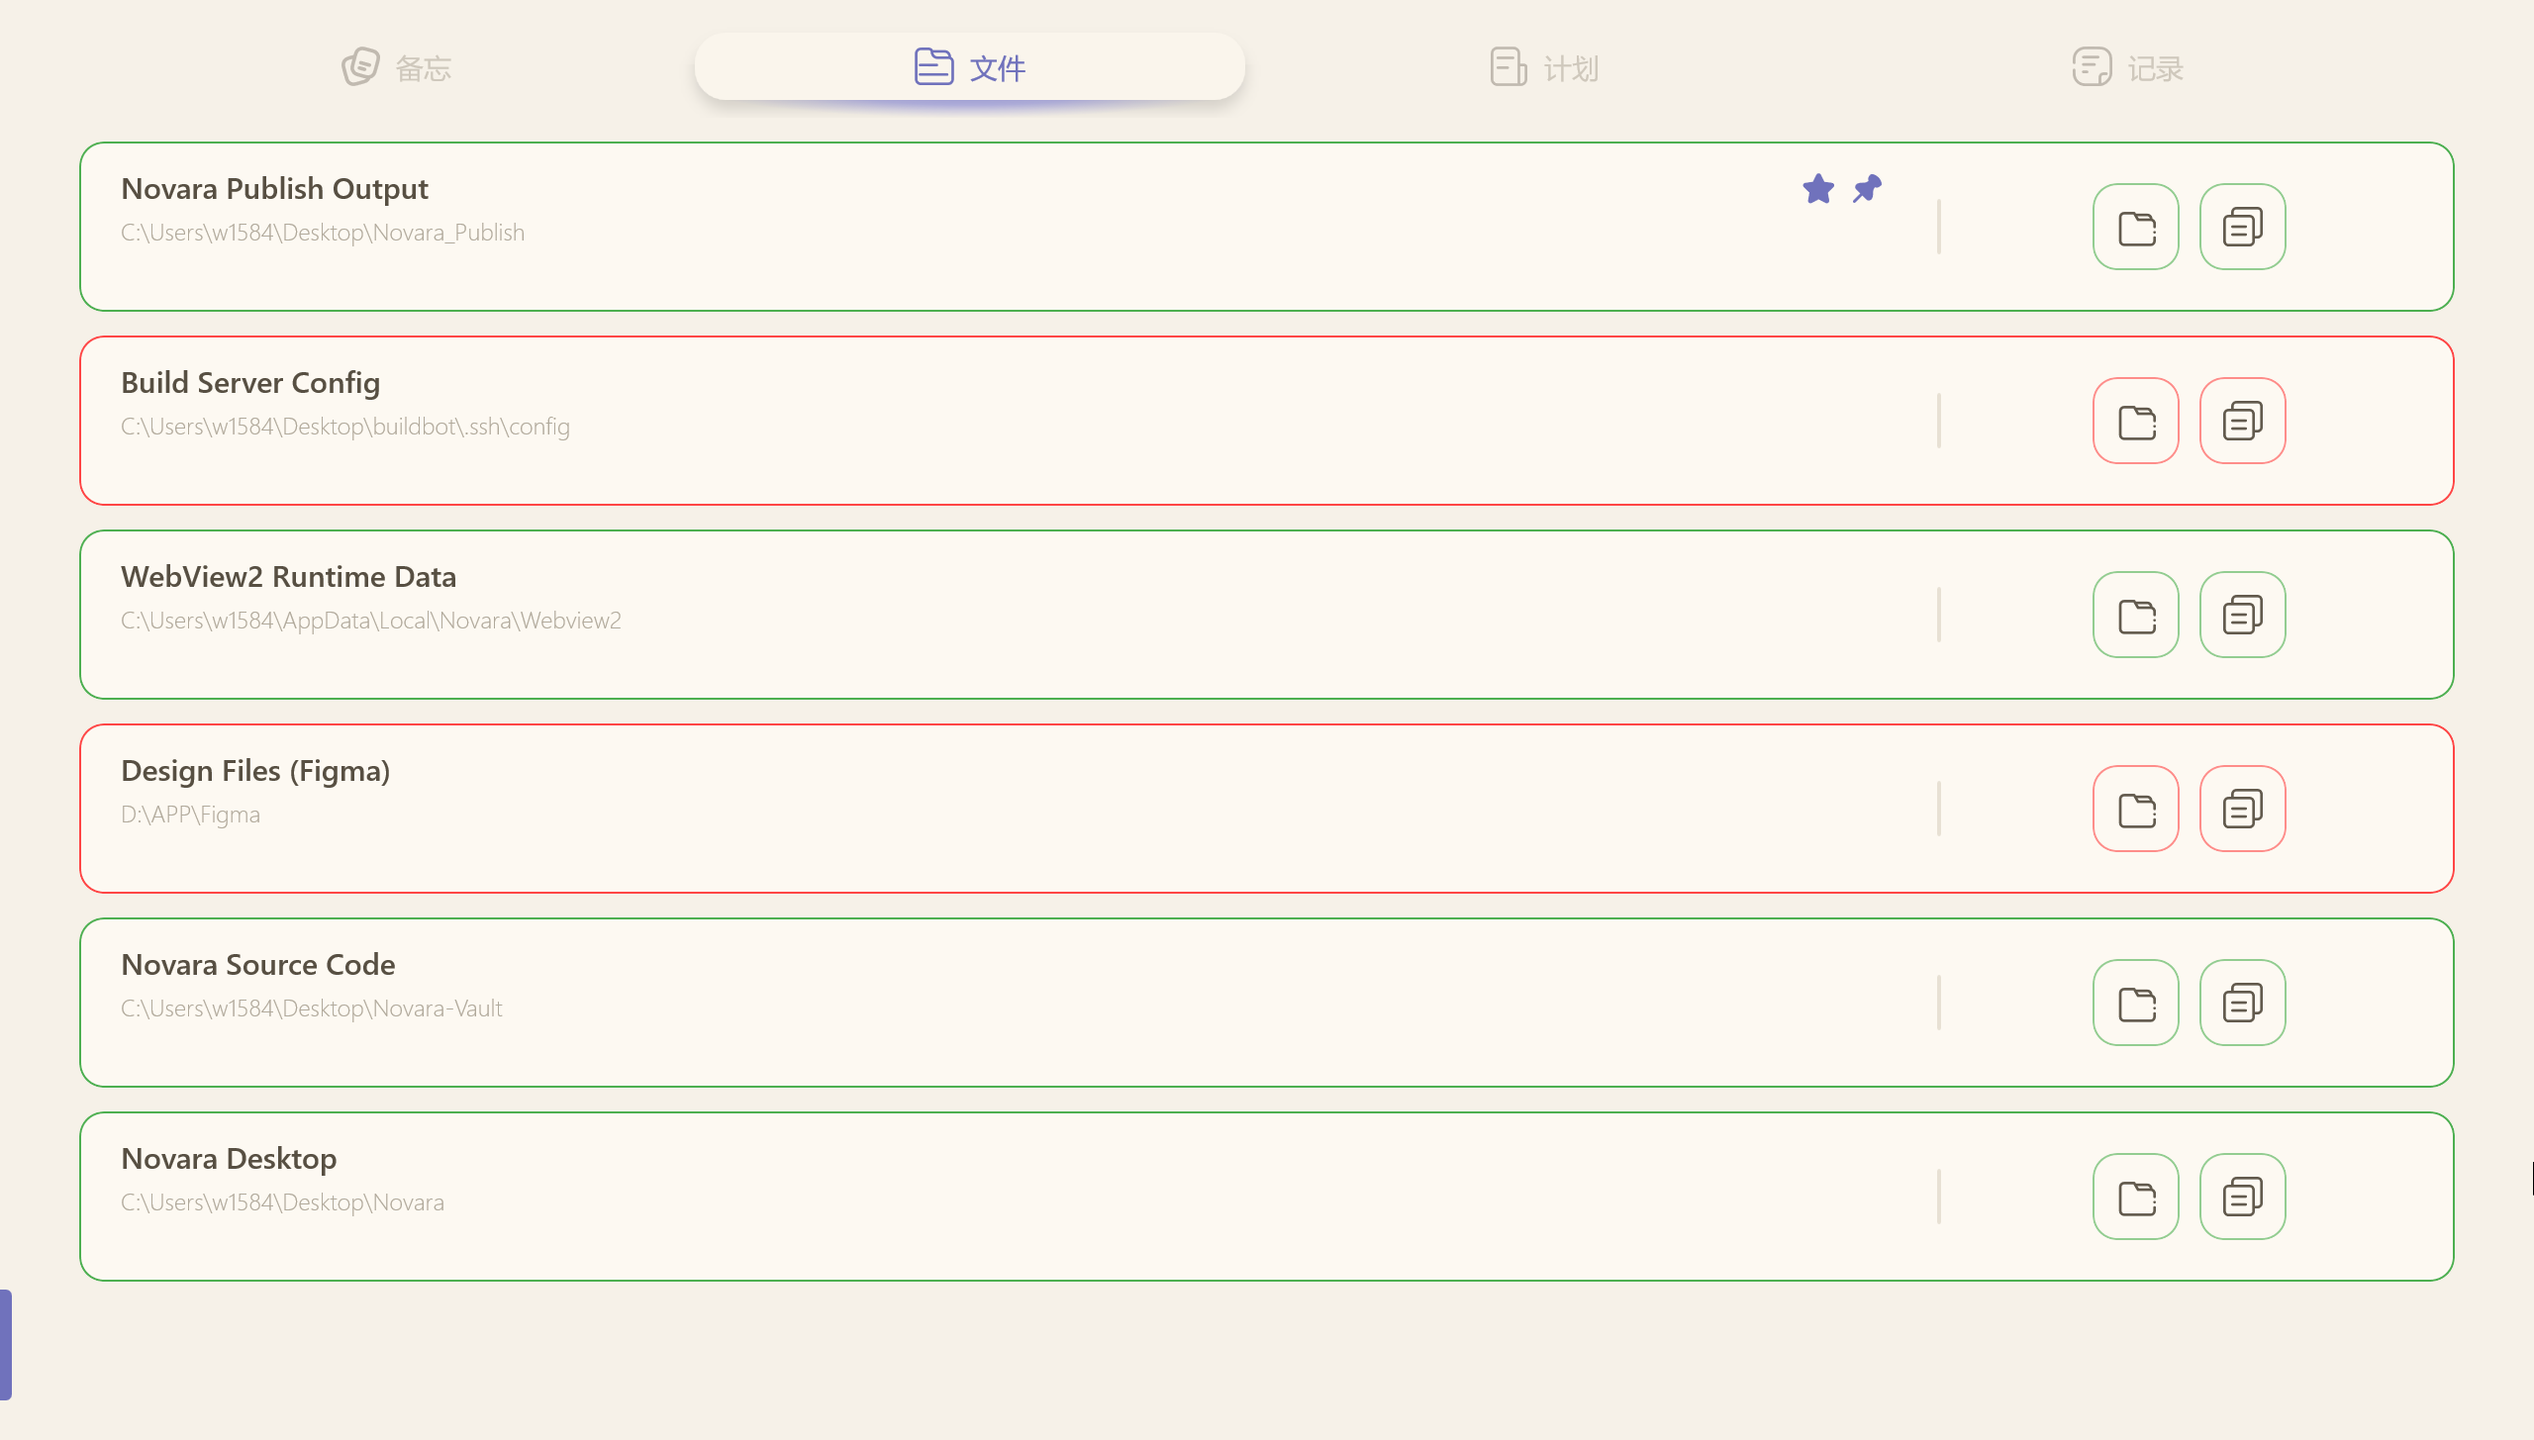
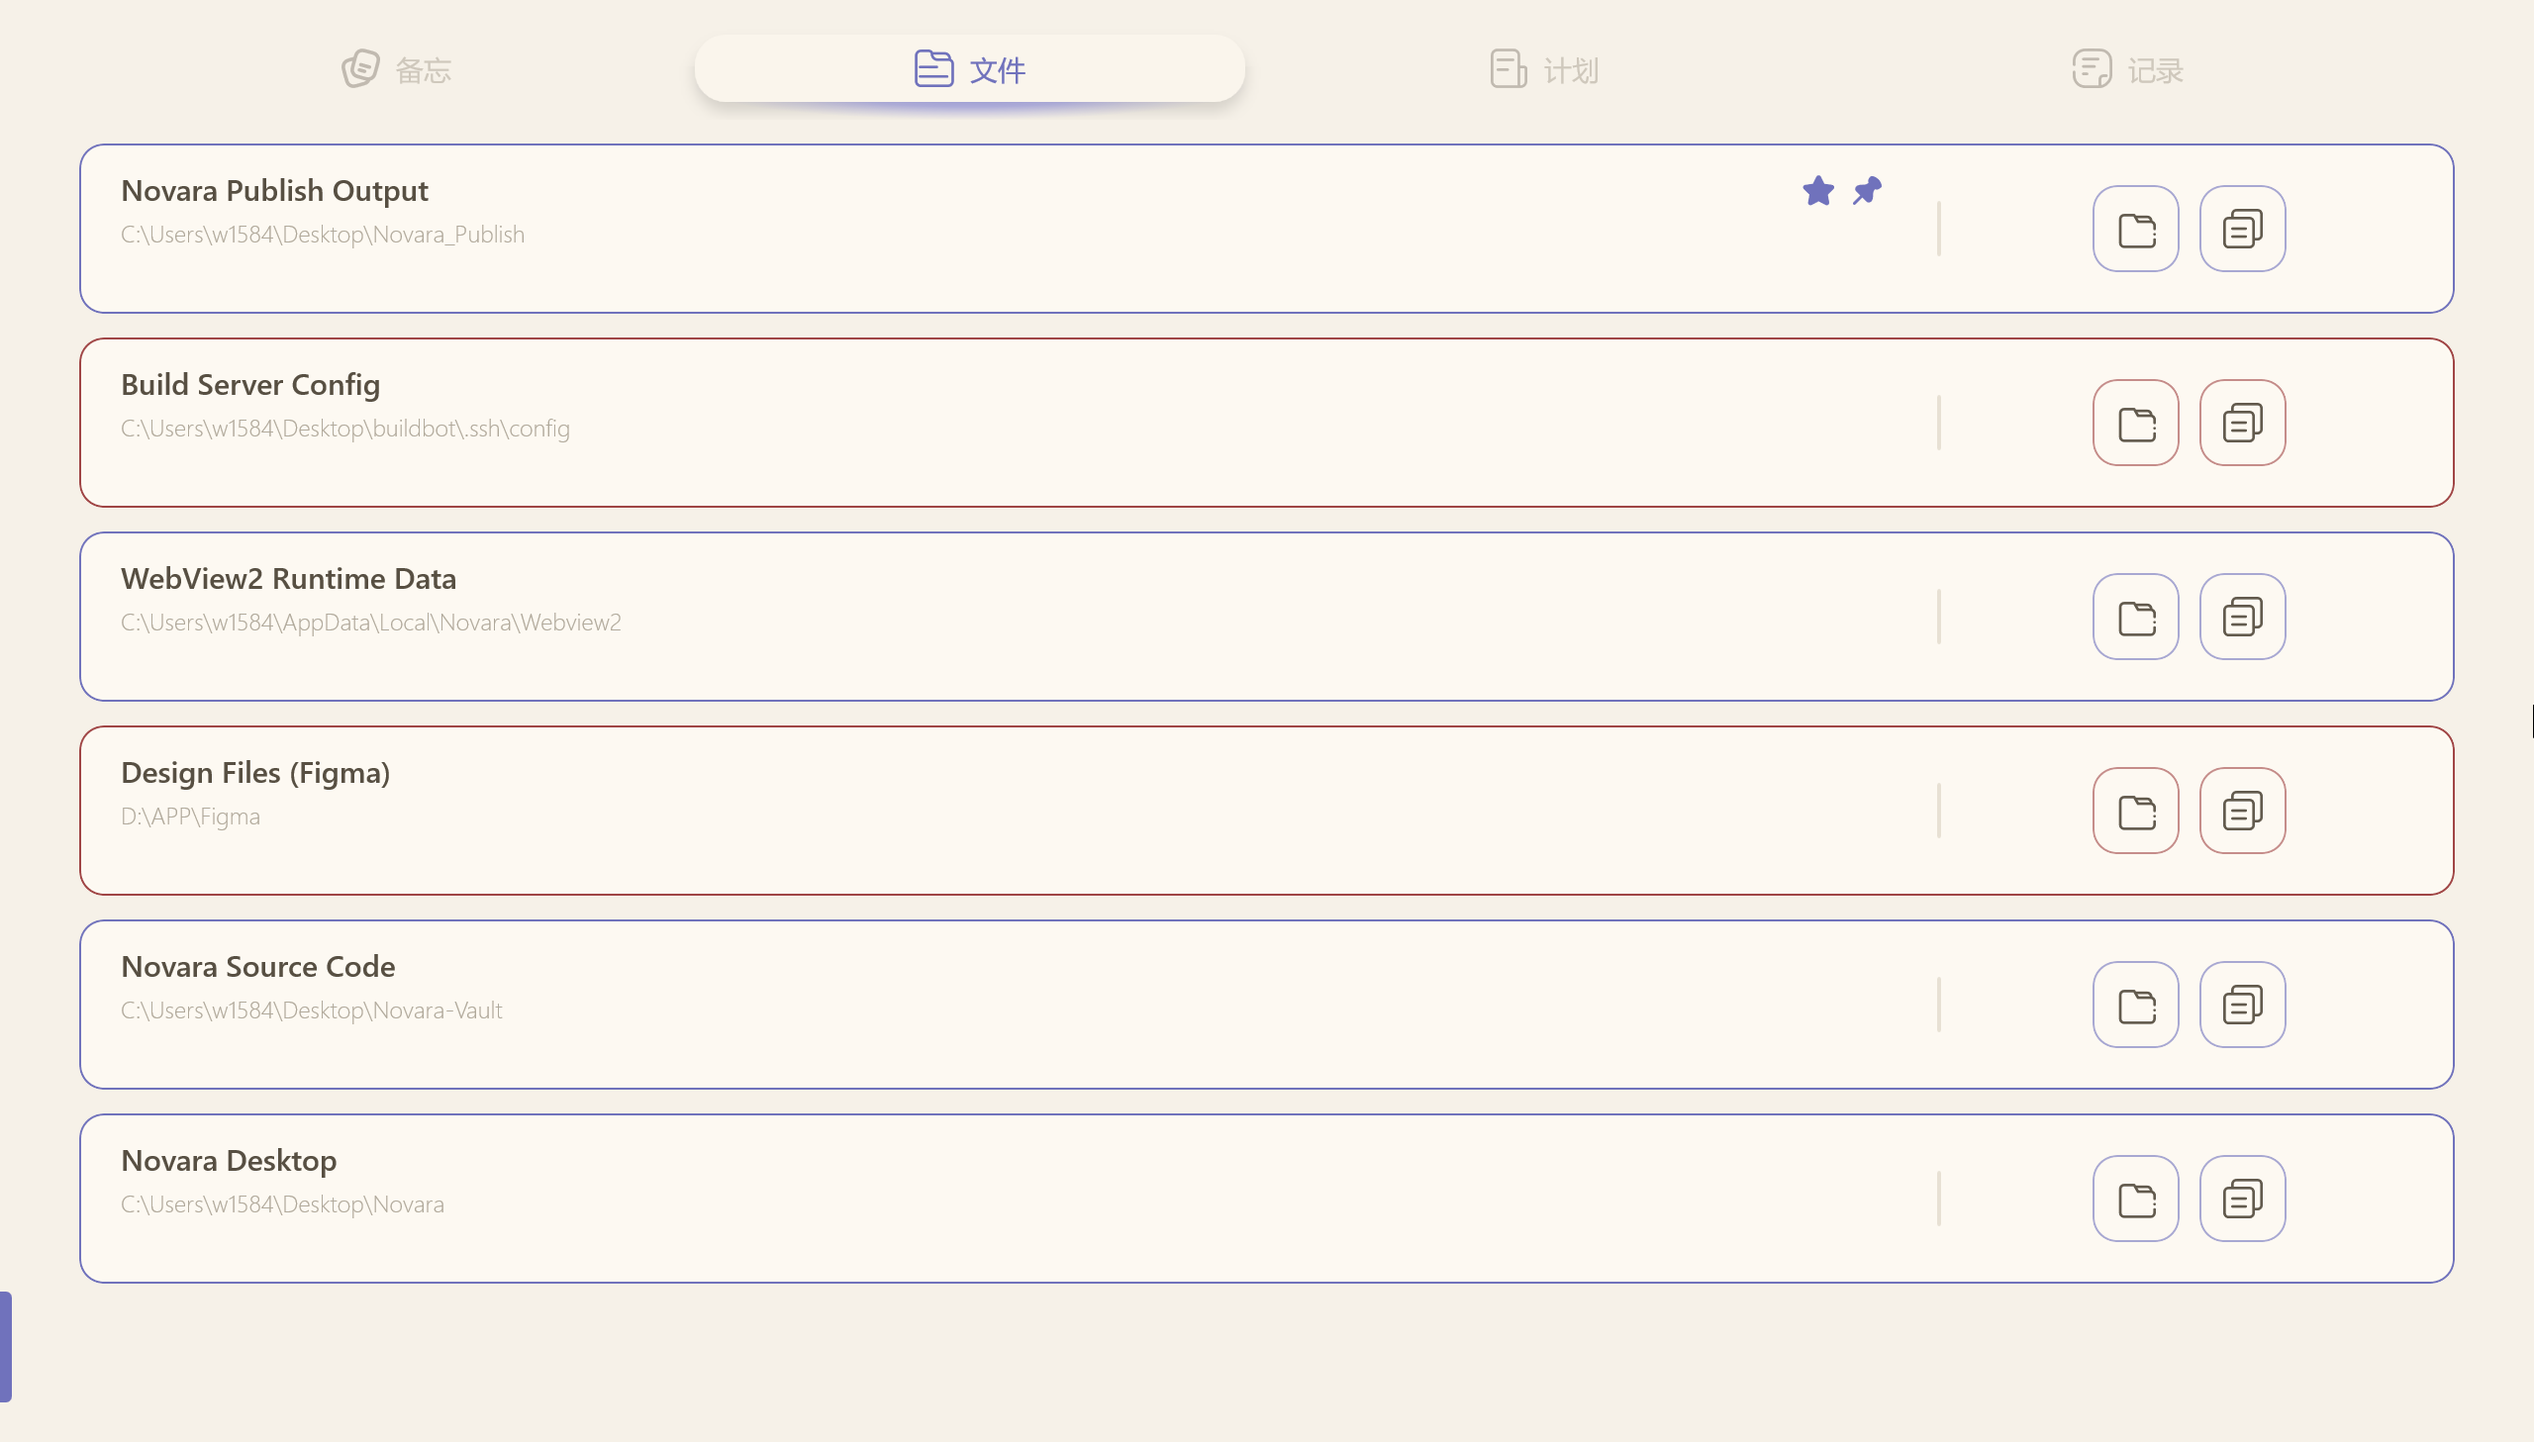
Refresh README screenshots to 10.2 UI and add split-preview and reminder shots

diff --git a/README.md b/README.md
@@ -124,6 +124,10 @@ A lightweight productivity board that combines to-do lists, sticky notes, and ti
   <img src="images/English-PlanPage.png" alt="Task dashboard" width="720" />
 </p>
 
+<p align="center">
+  <img src="images/Plan Reminder.png" alt="Reminder gradient on a plan card" width="720" />
+</p>
+
 ## Desktop Sticky Notes
 
 Send any note or todo card to your desktop with one click. A dedicated lightweight host process (**StickNoteHost**) keeps notes visible even when the main app is closed:
@@ -157,6 +161,7 @@ A filter bar (mixed / diary / documents) and per-card format badges keep everyth
   <img src="images/HtmlEditor.png" alt="Rich text HTML editor" width="420" />
   <img src="images/English-MdEditor-PreviewMode.png" alt="Markdown editor preview" width="420" />
   <img src="images/English-MdEditor-SourceMode.png" alt="Markdown editor source mode" width="420" />
+  <img src="images/Markdown Editor - Split Preview Mode.png" alt="Markdown editor split preview" width="420" />
 </p>
 
 ## Novara Snapshot
